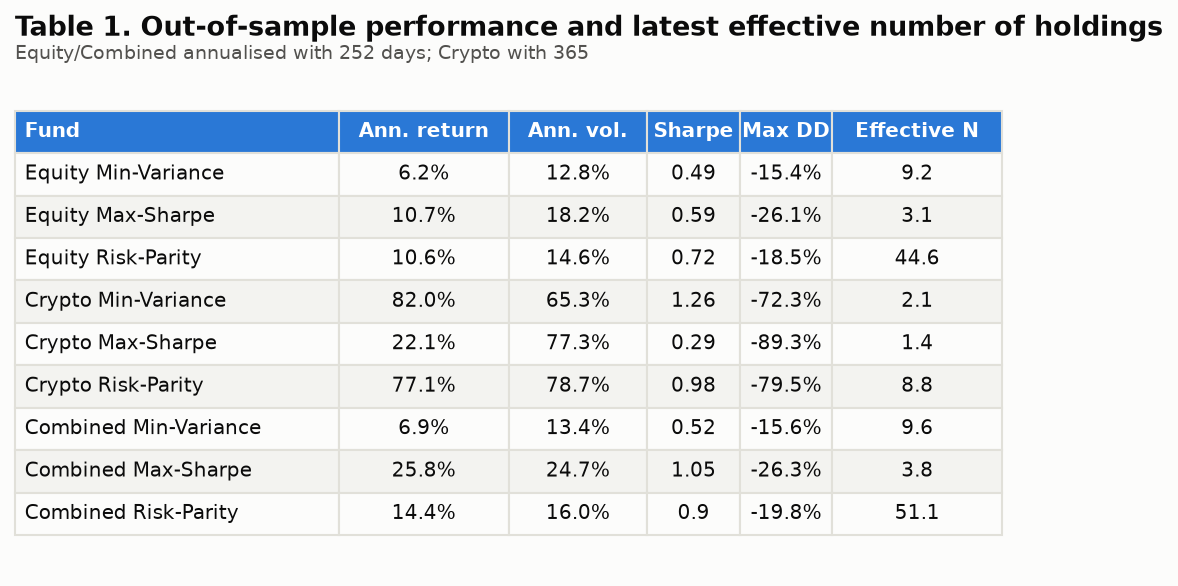
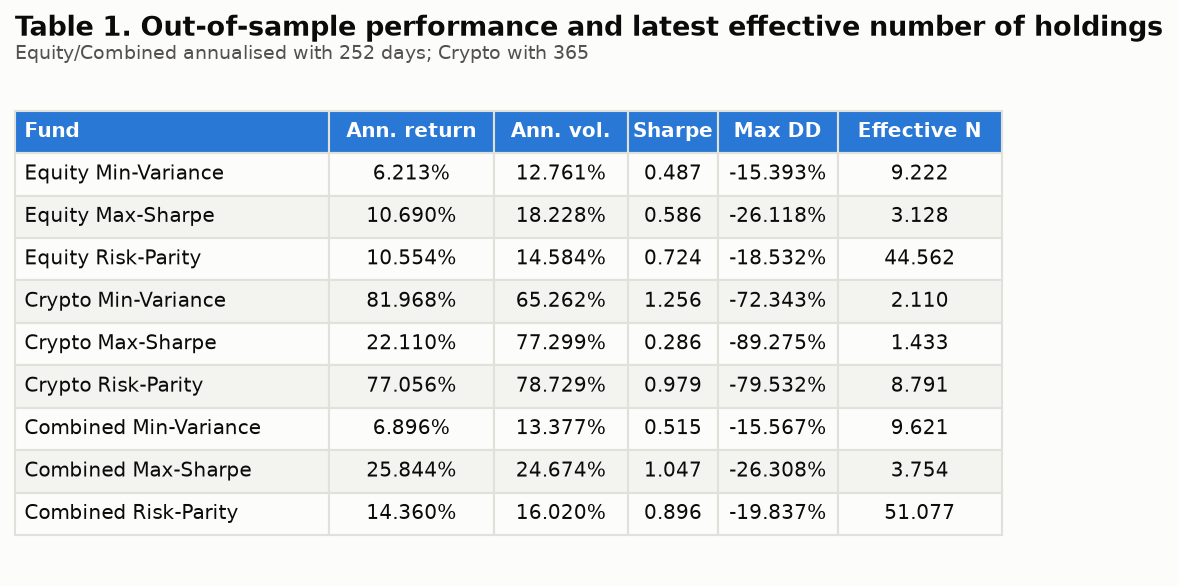
Force uniform 3-decimal-place formatting on all table images (float-to-str was silently dropping trailing zeros)

diff --git a/scripts/run_part_b.py b/scripts/run_part_b.py
@@ -477,11 +477,11 @@ def table_images():
     main_cols = ["fund", "annualised_return", "annualised_volatility", "sharpe_ratio",
                  "max_drawdown", "effective_n_holdings"]
     main = perf[main_cols].copy()
-    main["annualised_return"] = (main["annualised_return"] * 100).round(1).astype(str) + "%"
-    main["annualised_volatility"] = (main["annualised_volatility"] * 100).round(1).astype(str) + "%"
-    main["max_drawdown"] = (main["max_drawdown"] * 100).round(1).astype(str) + "%"
-    main["sharpe_ratio"] = main["sharpe_ratio"].round(2)
-    main["effective_n_holdings"] = main["effective_n_holdings"].round(1)
+    main["annualised_return"] = (main["annualised_return"] * 100).map(lambda x: f"{x:.3f}%")
+    main["annualised_volatility"] = (main["annualised_volatility"] * 100).map(lambda x: f"{x:.3f}%")
+    main["max_drawdown"] = (main["max_drawdown"] * 100).map(lambda x: f"{x:.3f}%")
+    main["sharpe_ratio"] = main["sharpe_ratio"].map(lambda x: f"{x:.3f}")
+    main["effective_n_holdings"] = main["effective_n_holdings"].map(lambda x: f"{x:.3f}")
     main = main[main["fund"] != "Equity Max-Sharpe + Sentiment Tilt"]
     main.columns = ["Fund", "Ann. return", "Ann. vol.", "Sharpe", "Max DD", "Effective N"]
     save_table_image(main, "table1_performance_metrics.png",
@@ -489,8 +489,8 @@ def table_images():
                       "Equity/Combined annualised with 252 days; Crypto with 365")
 
     vf = pd.read_csv(RESULTS / "tables" / "vader_vs_finvader.csv")
-    vf["mean_sentiment"] = vf["mean_sentiment"].round(3)
-    vf["pct_exact_zero"] = (vf["pct_exact_zero"] * 100).round(1).astype(str) + "%"
+    vf["mean_sentiment"] = vf["mean_sentiment"].map(lambda x: f"{x:.3f}")
+    vf["pct_exact_zero"] = (vf["pct_exact_zero"] * 100).map(lambda x: f"{x:.3f}%")
     vf.columns = ["Model", "Mean ticker-day sentiment", "Exact-zero observations"]
     save_table_image(vf, "table2_vader_vs_finvader.png",
                       "Table 2. Standard VADER versus finVADER validation comparison")
@@ -498,24 +498,27 @@ def table_images():
     fc = pd.read_csv(RESULTS / "tables" / "fusion_comparison.csv")
     fc_disp = fc[["fund", "annualised_return", "annualised_volatility", "sharpe_ratio",
                   "max_drawdown", "avg_turnover", "latest_max_weight", "effective_n_holdings"]].copy()
-    fc_disp["annualised_return"] = (fc_disp["annualised_return"] * 100).round(2).astype(str) + "%"
-    fc_disp["annualised_volatility"] = (fc_disp["annualised_volatility"] * 100).round(2).astype(str) + "%"
-    fc_disp["max_drawdown"] = (fc_disp["max_drawdown"] * 100).round(2).astype(str) + "%"
-    fc_disp["avg_turnover"] = (fc_disp["avg_turnover"] * 100).round(1).astype(str) + "%"
-    fc_disp["latest_max_weight"] = (fc_disp["latest_max_weight"] * 100).round(1).astype(str) + "%"
-    fc_disp["sharpe_ratio"] = fc_disp["sharpe_ratio"].round(3)
-    fc_disp["effective_n_holdings"] = fc_disp["effective_n_holdings"].round(2)
+    fc_disp["annualised_return"] = (fc_disp["annualised_return"] * 100).map(lambda x: f"{x:.3f}%")
+    fc_disp["annualised_volatility"] = (fc_disp["annualised_volatility"] * 100).map(lambda x: f"{x:.3f}%")
+    fc_disp["max_drawdown"] = (fc_disp["max_drawdown"] * 100).map(lambda x: f"{x:.3f}%")
+    fc_disp["avg_turnover"] = (fc_disp["avg_turnover"] * 100).map(lambda x: f"{x:.3f}%")
+    fc_disp["latest_max_weight"] = (fc_disp["latest_max_weight"] * 100).map(lambda x: f"{x:.3f}%")
+    fc_disp["sharpe_ratio"] = fc_disp["sharpe_ratio"].map(lambda x: f"{x:.3f}")
+    fc_disp["effective_n_holdings"] = fc_disp["effective_n_holdings"].map(lambda x: f"{x:.3f}")
     fc_disp["fund"] = ["Equity Max-Sharpe", "+ Sentiment tilt"]
     fc_disp.columns = ["Fund", "Return", "Vol.", "Sharpe", "Max DD", "Turnover", "Max wt.", "Effective N"]
     save_table_image(fc_disp, "table3_fusion_comparison.png",
                       "Table 3. Equity Max-Sharpe before and after the 0.50 sentiment tilt")
 
     fr = pd.read_csv(RESULTS / "tables" / "fusion_robustness.csv")
-    fr["annualised_return"] = (fr["annualised_return"] * 100).round(2).astype(str) + "%"
-    fr["annualised_volatility"] = (fr["annualised_volatility"] * 100).round(2).astype(str) + "%"
-    fr["max_drawdown"] = (fr["max_drawdown"] * 100).round(2).astype(str) + "%"
-    fr["turnover"] = (fr["turnover"] * 100).round(1).astype(str) + "%"
-    fr["sharpe_ratio"] = fr["sharpe_ratio"].round(3)
+    fr["annualised_return"] = (fr["annualised_return"] * 100).map(lambda x: f"{x:.3f}%")
+    fr["annualised_volatility"] = (fr["annualised_volatility"] * 100).map(lambda x: f"{x:.3f}%")
+    fr["max_drawdown"] = (fr["max_drawdown"] * 100).map(lambda x: f"{x:.3f}%")
+    fr["turnover"] = (fr["turnover"] * 100).map(lambda x: f"{x:.3f}%")
+    fr["sharpe_ratio"] = fr["sharpe_ratio"].map(lambda x: f"{x:.3f}")
+    # tilt_strength is a pre-set parameter value (0, 0.25, 0.5, 1.0), not a
+    # measured/rounded quantity, so it keeps 2dp (its own exact precision)
+    # rather than being forced to match the other columns' 3dp.
     fr["tilt_strength"] = fr["tilt_strength"].map(lambda x: f"{x:.2f}")
     fr.columns = ["Tilt k", "Ann. return", "Ann. vol.", "Sharpe", "Max DD", "Turnover"]
     save_table_image(fr, "table4_fusion_robustness.png",
@@ -523,10 +526,10 @@ def table_images():
 
     full = perf.copy()
     for c in ["annualised_return", "annualised_volatility", "max_drawdown", "avg_turnover", "latest_max_weight"]:
-        full[c] = (full[c] * 100).round(1).astype(str) + "%"
-    full["sharpe_ratio"] = full["sharpe_ratio"].round(2)
-    full["herfindahl_index"] = full["herfindahl_index"].round(3)
-    full["effective_n_holdings"] = full["effective_n_holdings"].round(1)
+        full[c] = (full[c] * 100).map(lambda x: f"{x:.3f}%")
+    full["sharpe_ratio"] = full["sharpe_ratio"].map(lambda x: f"{x:.3f}")
+    full["herfindahl_index"] = full["herfindahl_index"].map(lambda x: f"{x:.3f}")
+    full["effective_n_holdings"] = full["effective_n_holdings"].map(lambda x: f"{x:.3f}")
     full = full[["fund", "annualised_return", "annualised_volatility", "sharpe_ratio", "max_drawdown",
                  "avg_turnover", "latest_max_weight", "herfindahl_index", "effective_n_holdings",
                  "periods_per_year"]]

diff --git a/ai/prompt_log.md b/ai/prompt_log.md
@@ -792,3 +792,49 @@ truncated text, no overlapping title/subtitle. Re-ran the full pipeline
 and check_handin.py (21 checks - the report.pdf reminder is expected,
 since the actual editable report lives outside this repo while it's being
 drafted) to confirm nothing else broke.
+
+---
+
+# Prompt log - verifying and fixing decimal-place consistency across table images
+
+## What I wanted
+Confirm two things the user asked about directly: (1) that every table
+image is genuinely built from the committed CSVs rather than typed by
+hand, and (2) that decimal precision is consistent across all 5 images.
+
+## Prompt(s)
+- "你再看一下你生层的这几个table都是按照原有csv的基础上生成的吧,然后如果你
+  保留小数点的话再确认一下是不是全都统一保留小数点后三位了" - asked me to
+  re-confirm the tables are CSV-derived and check whether decimal places
+  are uniformly 3dp throughout.
+
+## What the assistant produced
+Confirmed (1) directly from the code: every table in table_images() opens
+with `pd.read_csv(RESULTS / "tables" / ...)`, no hardcoded values. For (2),
+found real inconsistency - different tables used .round(1), .round(2), or
+.round(3) for the same kind of quantity (e.g. Sharpe ratio was 2dp in
+Table 1/B1 but 3dp in Table 3/4). Standardised every percentage, Sharpe
+ratio, effective-N, and HHI value to 3dp.
+
+## What was wrong or risky
+The first fix (calling .round(3) uniformly) did not actually produce
+uniform-looking output - confirmed by re-rendering and looking at the
+images rather than assuming .round(3) was sufficient. Python drops
+trailing zeros converting a rounded float to a string (round(0.32,3) is
+the float 0.32, and str(0.32) is "0.32", not "0.320"), so values that
+happened to round to an exact 1dp or 2dp number (10.69%, 22.11%, 16.02%,
+2.11, 0.32) still displayed with fewer visible digits than values that
+didn't - the same inconsistency the user flagged, just hiding one level
+deeper.
+
+## What I changed and why
+Replaced every `.round(3).astype(str)` / bare `.round(3)` with explicit
+f-string formatting (`.map(lambda x: f"{x:.3f}")` / `f"{x:.3f}%"`), which
+forces exactly 3 digits after the decimal point regardless of trailing
+zeros. Left tilt_strength (Table 4's row label: 0.00/0.25/0.50/1.00) at
+2dp deliberately, since it is a pre-set input parameter, not a measured
+quantity being rounded - flagged this distinction in a code comment rather
+than silently making it 3dp too. Re-rendered all 5 tables and visually
+confirmed every percentage/Sharpe/effective-N/HHI value now shows exactly
+3 digits after the decimal point with no exceptions. Re-ran the full
+pipeline and check_handin.py (21 checks) to confirm nothing else broke.
